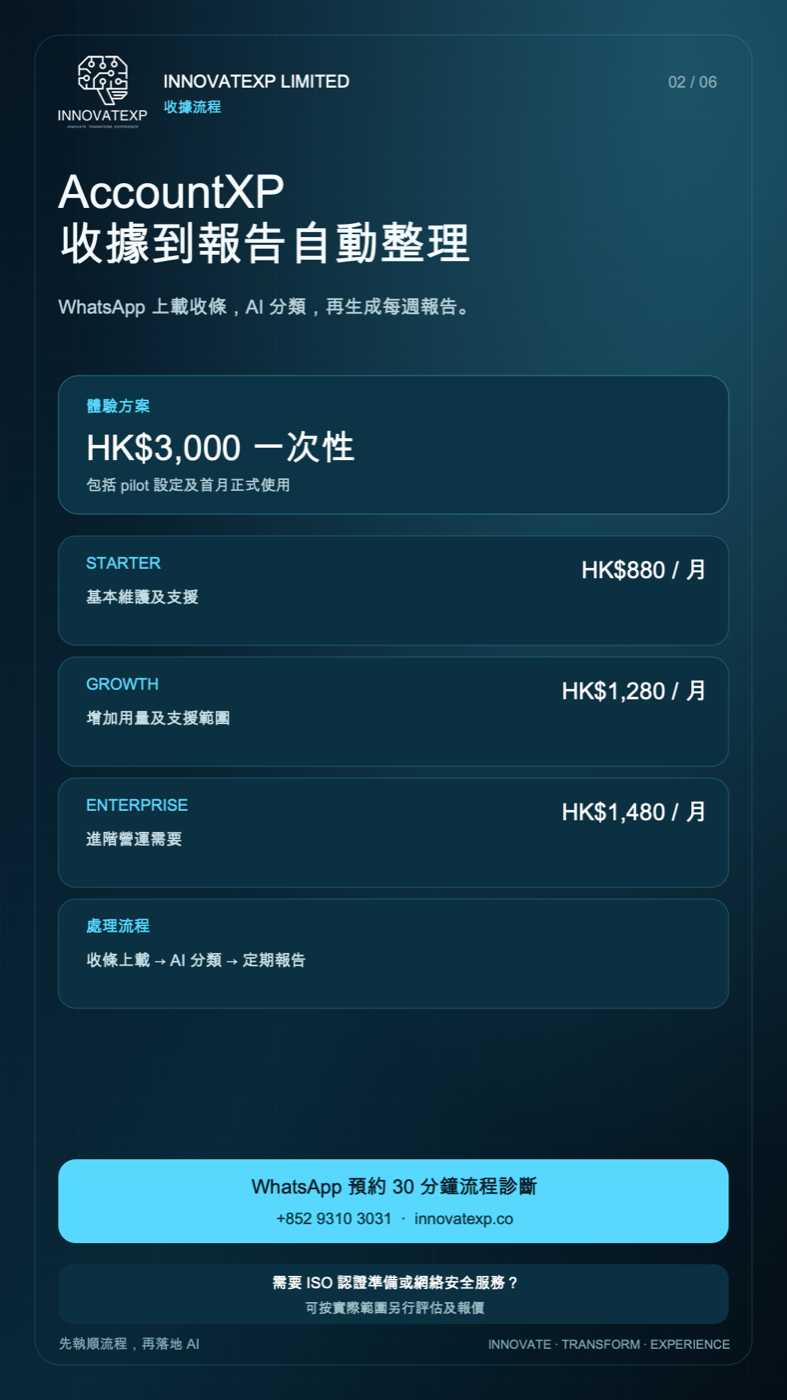
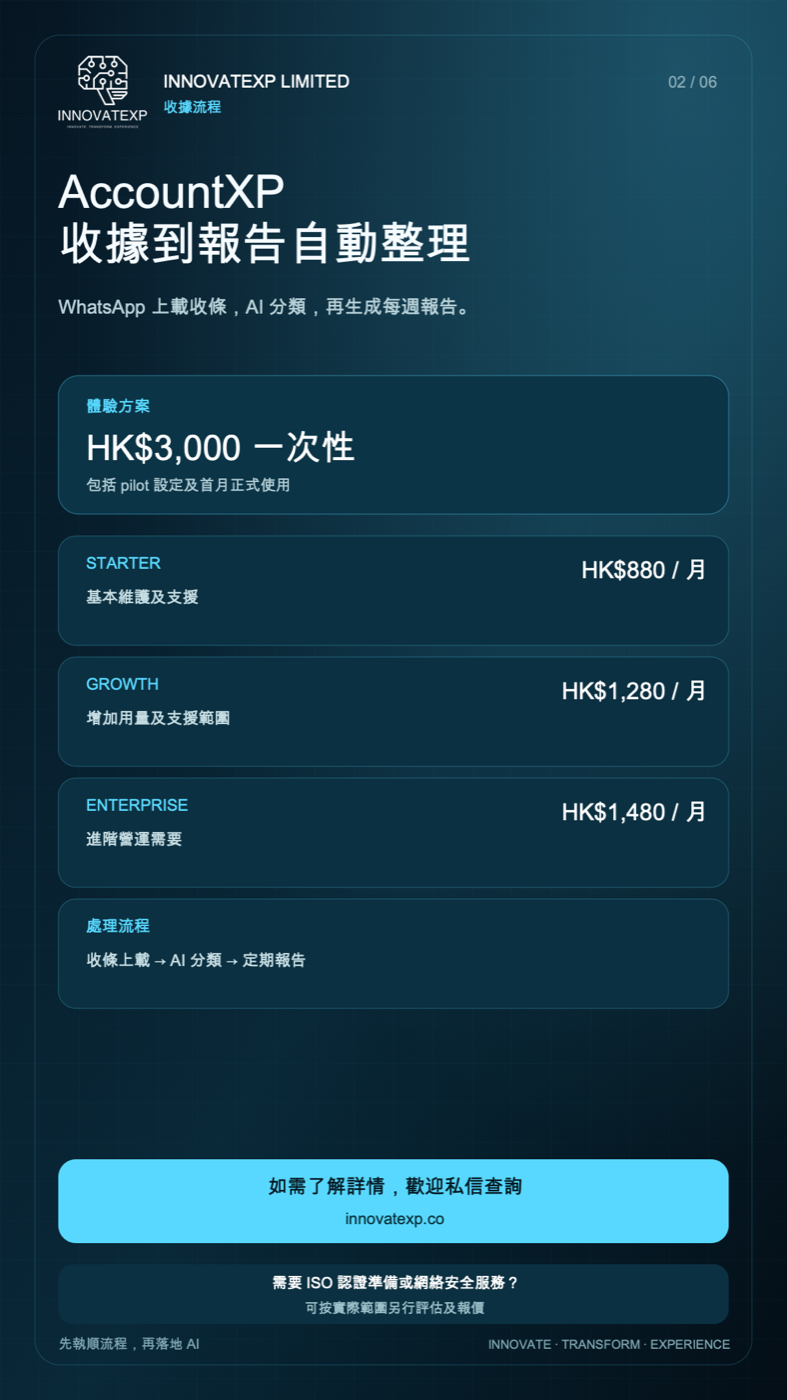
Hide mobile number from public copy and client bundles.
Poster footers and WhatsApp CTAs now point to innovatexp.co /bookme or /api/whatsapp, so the number stays server-side only.

Changed region(s): [[0.305, 0.8293, 0.7014, 0.8907]]

diff --git a/src/app/LanguageContext.tsx b/src/app/LanguageContext.tsx
@@ -342,7 +342,7 @@ export const translations = {
     'wizard.finale.team_note': 'Our team has received your diagnosis summary.',
     'wizard.finale.download': 'Download your summary (TXT)',
     'wizard.finale.next_calendar': 'Continue — select a time',
-    'wizard.finale.whatsapp_answers': 'Send answers to WhatsApp (+852 9310 3031)',
+    'wizard.finale.whatsapp_answers': 'Send answers via WhatsApp',
     'wizard.flowx.title': 'Almost there — leave your details',
     'wizard.flowx.subtitle': 'We’ll use this to confirm your slot and Follow-up.',
     'wizard.flowx.name': 'Your name',
@@ -1308,7 +1308,7 @@ export const translations = {
     'wizard.finale.team_note': '我哋已將你的需求分析傳送俾團隊。',
     'wizard.finale.download': '下載您的專屬分析摘要 (TXT)',
     'wizard.finale.next_calendar': '繼續 — 先揀時間',
-    'wizard.finale.whatsapp_answers': '用 WhatsApp 傳送答案（+852 9310 3031）',
+    'wizard.finale.whatsapp_answers': '用 WhatsApp 傳送答案',
     'wizard.flowx.title': '最後一步 — 留下聯絡方式',
     'wizard.flowx.subtitle': '用作確認預約同 Follow-up。',
     'wizard.flowx.name': '稱呼／姓名',

diff --git a/src/app/api/whatsapp/route.ts b/src/app/api/whatsapp/route.ts
@@ -1,0 +1,23 @@
+import { NextRequest, NextResponse } from "next/server";
+
+/**
+ * Server-only WhatsApp redirect — keeps the number out of client JS and page copy.
+ * Set WHATSAPP_NUMBER (digits, e.g. 85293103031) in the environment.
+ */
+function digitsFromEnv(): string | null {
+  const raw = process.env.WHATSAPP_NUMBER || process.env.NEXT_PUBLIC_WHATSAPP_NUMBER;
+  if (!raw) return null;
+  const digits = raw.replace(/[^\d]/g, "");
+  return digits.length >= 8 ? digits : null;
+}
+
+export async function GET(req: NextRequest) {
+  const digits = digitsFromEnv();
+  if (!digits) {
+    return NextResponse.redirect(new URL("/bookme", req.url), 302);
+  }
+  const text = req.nextUrl.searchParams.get("text") ?? "";
+  const target = new URL(`https://wa.me/${digits}`);
+  if (text) target.searchParams.set("text", text);
+  return NextResponse.redirect(target, 302);
+}

diff --git a/src/lib/whatsapp-contact.ts b/src/lib/whatsapp-contact.ts
@@ -1,11 +1,8 @@
-/** Larry's public WhatsApp (digits only, for wa.me). Env overrides when set. */
-export const DEFAULT_WHATSAPP_DIGITS = "85293103031";
-
-export function getWhatsAppDigits(): string {
-  const fromEnv = process.env.NEXT_PUBLIC_WHATSAPP_NUMBER?.replace(/[^\d]/g, "");
-  return fromEnv || DEFAULT_WHATSAPP_DIGITS;
-}
-
+/**
+ * Public WhatsApp CTAs go through /api/whatsapp so the number is never shown in UI
+ * or shipped in client bundles. Set WHATSAPP_NUMBER (server env) on Vercel.
+ * Booking (/bookme) remains the primary public contact path.
+ */
 export function buildWhatsAppHref(prefill: string): string {
-  return `https://wa.me/${getWhatsAppDigits()}?text=${encodeURIComponent(prefill)}`;
+  return `/api/whatsapp?text=${encodeURIComponent(prefill)}`;
 }

diff --git a/src/components/FloatingWhatsAppButton.tsx b/src/components/FloatingWhatsAppButton.tsx
@@ -1,4 +1,4 @@
-/* F09: Floating WhatsApp CTA - Fixed wa.me link (env or Larry's number). */
+/* F09: Floating WhatsApp CTA — routes via /api/whatsapp (number stays server-side). */
 "use client";
 
 import { buildWhatsAppHref } from "@/lib/whatsapp-contact";
